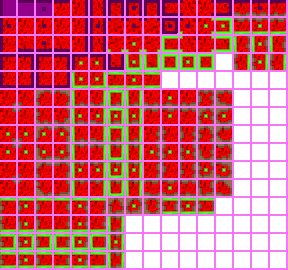
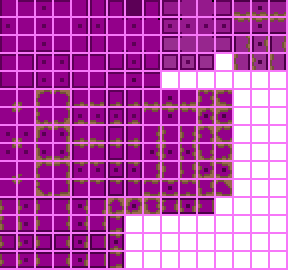
Added Purple Block

diff --git a/Items/Placeable/myblock.cs b/Items/Placeable/myblock.cs
@@ -19,7 +19,8 @@ namespace TestMod.Items.Placeable
             item.useTurn = true;
             item.autoReuse = true;
             item.useAnimation = 15;
-            item.useStyle = 15;
+            item.useTime = 10;
+            item.useStyle = ItemUseStyleID.SwingThrow;
             item.consumable = true;
             item.createTile = mod.TileType("TileViola");
         }
@@ -27,8 +28,8 @@ namespace TestMod.Items.Placeable
         public override void AddRecipes()
         {
             ModRecipe recipe = new ModRecipe(mod);
-            recipe.AddIngredient(ItemID.DirtBlock, 10);
-            recipe.SetResult(this);
+            recipe.AddIngredient(ItemID.DirtBlock, 1);
+            recipe.SetResult(this, 10);
             recipe.AddRecipe();
         }
     }

diff --git a/Items/myitem.cs b/Items/myitem.cs
@@ -33,6 +33,7 @@ namespace TestMod.Items
             item.rare = 2;
             item.UseSound = SoundID.Item1;
             item.autoReuse = true;
+            item.crit = 90;
         }
 
         /*
@@ -53,6 +54,9 @@ namespace TestMod.Items
         */
         public override void OnHitNPC(Player player, NPC target, int damage, float knockBack, bool crit)
         {
+            int[] lista = {BuffID.Gravitation, BuffID.HeartLamp};
+            int lunghezza = lista.Length;
+
             if(crit){
                 target.AddBuff(BuffID.Gravitation, 5 * 60);
             }else{
@@ -60,6 +64,5 @@ namespace TestMod.Items
             }
             
         }
-
     }
 }

diff --git a/Tiles/TileViola.cs b/Tiles/TileViola.cs
@@ -1,5 +1,5 @@
 using Microsoft.Xna.Framework;
-using Terraria.ID;
+using Terraria;
 using Terraria.ModLoader;
 
 namespace TestMod.Tiles
@@ -8,6 +8,11 @@ namespace TestMod.Tiles
     {
         public override void SetDefaults()
         {
+            Main.tileSolid[Type] = true;
+            Main.tileMergeDirt[Type] = true;
+            Main.tileBlockLight[Type] = false;
+            Main.tileLighted[Type] = false;
+        
             drop = mod.ItemType("myblock");
             AddMapEntry(new Color(444, 222, 435));
         }

diff --git a/README.md b/README.md
@@ -1,2 +1,9 @@
 # TestMod
-My fisrt Terraria Mod, only a test
+## By StefifoxApps
+
+My first Terraria Mod, only a test
+
+# Content in this mod
+
+- usefull sword
+- purple block
